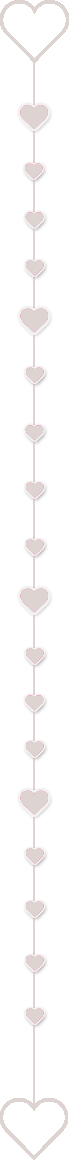
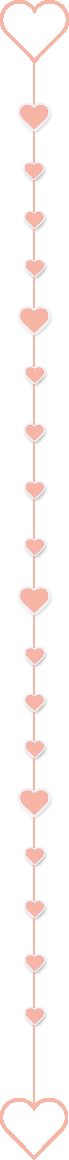
MM

Changed region(s): [[0.0, 0.0, 1.0, 0.9931], [0.3768, 0.9931, 0.6087, 1.0]]

diff --git a/css/style.css b/css/style.css
@@ -80,7 +80,7 @@ a {
 a:hover,
 a:focus,
 a:active {
-	color: #ddd3d1;
+	color: #f7b5a5;
 	text-decoration: none;
 	cursor: pointer;
 }
@@ -168,7 +168,7 @@ i:active {
 .wedding-button.bg-blackish:focus, 
 .wedding-button.bg-blackish:active {
 	outline: none;
-	background-color: #ddd3d1;
+	background-color: #f7b5a5;
 	color: #ffffff;
 }
 .wedding-button.bg-white:hover, 
@@ -188,7 +188,7 @@ i:active {
 	display: inline-block;
 	width: 94px;
 	height: 2px;
-	background-color: #ddd3d1;
+	background-color: #f7b5a5;
 	vertical-align: middle;
 	margin-right: 4px;
 }
@@ -197,7 +197,7 @@ i:active {
 	display: inline-block;
 	width: 94px;
 	height: 2px;
-	background-color: #ddd3d1;
+	background-color: #f7b5a5;
 	vertical-align: middle;
 	margin-right: 4px;
 }
@@ -225,7 +225,7 @@ i:active {
 /*	Color Codes
 --------------------------------------------------------------------------------------- */
 .text-pink {
-	color: #ddd3d1;
+	color: #f7b5a5;
 }
 .text-white {
 	color: #fff;
@@ -243,7 +243,7 @@ i:active {
 	background-color: #eeeeee;
 }
 .bg-pink {
-	background-color: #ddd3d1;
+	background-color: #f7b5a5;
 }
 .bg-white {
 	background-color: #fff;
@@ -311,7 +311,7 @@ header nav {
 	
 }
 .navbar-default .navbar-nav>li>a:hover {
-	color: #ddd3d1;
+	color: #f7b5a5;
 }
 .navbar-default .navbar-nav>li>a:hover, 
 .navbar-default .navbar-nav>li>a:focus,
@@ -349,7 +349,7 @@ header nav {
 .navbar-default .navbar-nav>.active>a:focus, 
 .navbar-default .navbar-nav>.active>a:hover {
 	background-color: transparent;
-	color: #ddd3d1;
+	color: #f7b5a5;
 }
 
 
@@ -450,7 +450,7 @@ header nav {
 .couple-tags {
 	font-family: 'arima_madurairegular';
 	font-size: 16px;
-	color: #ddd3d1;
+	color: #f7b5a5;
 	text-transform: capitalize;
 }
 .couple-name {
@@ -476,7 +476,7 @@ header nav {
 	margin-top: 190px;
 }
 .couple-thumbnail:hover figure>img {
-	border-color: #ddd3d1;
+	border-color: #f7b5a5;
 
 }
 .wedding-couple .section-tagline {
@@ -563,7 +563,7 @@ header nav {
     height: 0;
     border-style: solid;
     border-width: 17px 0 17px 16px;
-    border-color: transparent transparent transparent #ddd3d1;
+    border-color: transparent transparent transparent #f7b5a5;
     right: -15px;
     top: 8px;
 }
@@ -574,7 +574,7 @@ header nav {
     height: 0;
     border-style: solid;
     border-width: 17px 16px 17px 0;
-    border-color: transparent #ddd3d1 transparent transparent;
+    border-color: transparent #f7b5a5 transparent transparent;
     left: -15px;
     top: 8px;
 }
@@ -641,8 +641,8 @@ header nav {
     margin-bottom: 5px;
 }
 .carousel-indicators li.active {
-	background-color: #ddd3d1;
-	border-color: #ddd3d1;
+	background-color: #f7b5a5;
+	border-color: #f7b5a5;
 	margin-bottom: 5px;
 }
 .testimonial blockquote {
@@ -733,10 +733,10 @@ header nav {
     transition: border .2s, margin 0s;
 }
 .thumbnail-custom:hover {
-	border: 10px solid #ddd3d1;
+	border: 10px solid #f7b5a5;
 }
 .important-people figure:hover figcaption > h3 > a {
-	color: #ddd3d1;
+	color: #f7b5a5;
 }
 .important-people-name {
 	font-family: 'arima_maduraibold';
@@ -817,7 +817,7 @@ input {
 	box-shadow: none;
 }
 .input-group-focus {
-	outline: 1px solid #ddd3d1;
+	outline: 1px solid #f7b5a5;
 	box-shadow: 0px 0px 2px 2px rgba(255,255,255,.5);
 	-webkit-transition: all .3s ease-in;
 	transition: all .3s ease-in; 
@@ -945,7 +945,7 @@ input {
 	transition: all .5s;
 }
 #photos figcaption:hover {
-	background-color: rgba(221, 211, 209, 1);
+	background-color: rgba(247, 181, 165, 1);
 }
 #photos figcaption h4, 
 #photos figcaption p {
@@ -1047,26 +1047,26 @@ input {
 }
 
 .blog-thumbnail:hover a {
-	color: #ddd3d1;
+	color: #f7b5a5;
     text-decoration: none;
     cursor: pointer;
 }
 .blog-thumbnail:hover .blog-thumbnail-border {
-	border-color: #ddd3d1;
+	border-color: #f7b5a5;
 }    
 .overlay-gradient-35p { /* ff3.6+ */
 	background: -webkit-gradient(linear, left top, left bottom, color-stop(65%, rgba(255,255,255,0)), color-stop(100%, rgba(240,45,114,1))); /* safari4+,chrome */
 	background: -webkit-linear-gradient(90deg, rgba(240,45,114,1) 0%, rgba(255,255,255,0) 35%); /* safari5.1+,chrome10+ */ /* opera 11.10+ */ /* ie10+ */
 	background: -webkit-linear-gradient(bottom, rgba(240,45,114,1) 0%, rgba(255,255,255,0) 35%);
 	background: linear-gradient(0deg, rgba(240,45,114,1) 0%, rgba(255,255,255,0) 35%); /* w3c */
-	filter: progid:DXImageTransform.Microsoft.gradient( startColorstr='#ffffff', endColorstr='#ddd3d1',GradientType=0 ); /* ie6-9 */
+	filter: progid:DXImageTransform.Microsoft.gradient( startColorstr='#ffffff', endColorstr='#f7b5a5',GradientType=0 ); /* ie6-9 */
 }
 .blog-thumbnail:hover .overlay-gradient-35p  { /* ff3.6+ */
 	background: -webkit-gradient(linear, left top, left bottom, color-stop(45%, rgba(255,255,255,0)), color-stop(100%, rgba(240,45,114,1))); /* safari4+,chrome */
 	background: -webkit-linear-gradient(90deg, rgba(240,45,114,1) 0%, rgba(255,255,255,0) 65%); /* safari5.1+,chrome10+ */ /* opera 11.10+ */ /* ie10+ */
 	background: -webkit-linear-gradient(bottom, rgba(240,45,114,1) 0%, rgba(255,255,255,0) 65%);
 	background: linear-gradient(0deg, rgba(240,45,114,1) 0%, rgba(255,255,255,0) 65%); /* w3c */
-	filter: progid:DXImageTransform.Microsoft.gradient( startColorstr='#ffffff', endColorstr='#ddd3d1',GradientType=0 ); /* ie6-9 */
+	filter: progid:DXImageTransform.Microsoft.gradient( startColorstr='#ffffff', endColorstr='#f7b5a5',GradientType=0 ); /* ie6-9 */
 }
 .blog-thumbnail-border {
 	border-top: 0;
@@ -1094,7 +1094,7 @@ input {
 	transition: all .3s;
 }
 .contact-details:hover {
-	border: 1px solid #ddd3d1;
+	border: 1px solid #f7b5a5;
 }
 .contact-details i {
 	-webkit-transition: all .6s;
@@ -1102,7 +1102,7 @@ input {
 
 }
 .contact-details:hover i {
-	color: #ddd3d1;
+	color: #f7b5a5;
 }
 
 #gmap::before {
@@ -1209,7 +1209,7 @@ input {
 .blog-pagination i:focus,
 .blog-pagination i:active {
 	background-color: #ffffff;
-	color: #ddd3d1;
+	color: #f7b5a5;
 }
 
 .blog-pagination-btn {
@@ -1223,7 +1223,7 @@ input {
 .blog-pagination-btn:hover,
 .blog-pagination-btn:focus,
 .blog-pagination-btn:active {
-	background-color: #ddd3d1;
+	background-color: #f7b5a5;
 	color: #ffffff;
 	text-decoration: none;
 }
@@ -1285,7 +1285,7 @@ input {
 	font-family: FontAwesome;
 	display: inline-block;
 	font-size: 22px;
-	color: #ddd3d1;
+	color: #f7b5a5;
 	padding-right: 20px;
 	line-height: 1;
 	vertical-align: middle;
@@ -1381,7 +1381,7 @@ input {
     right: 0;
 }
 .pink-overlay {
-	background-color: rgba(221, 211, 209, .6);
+	background-color: rgba(247, 181, 165, .6);
 	
 }
 .parallax-container {
